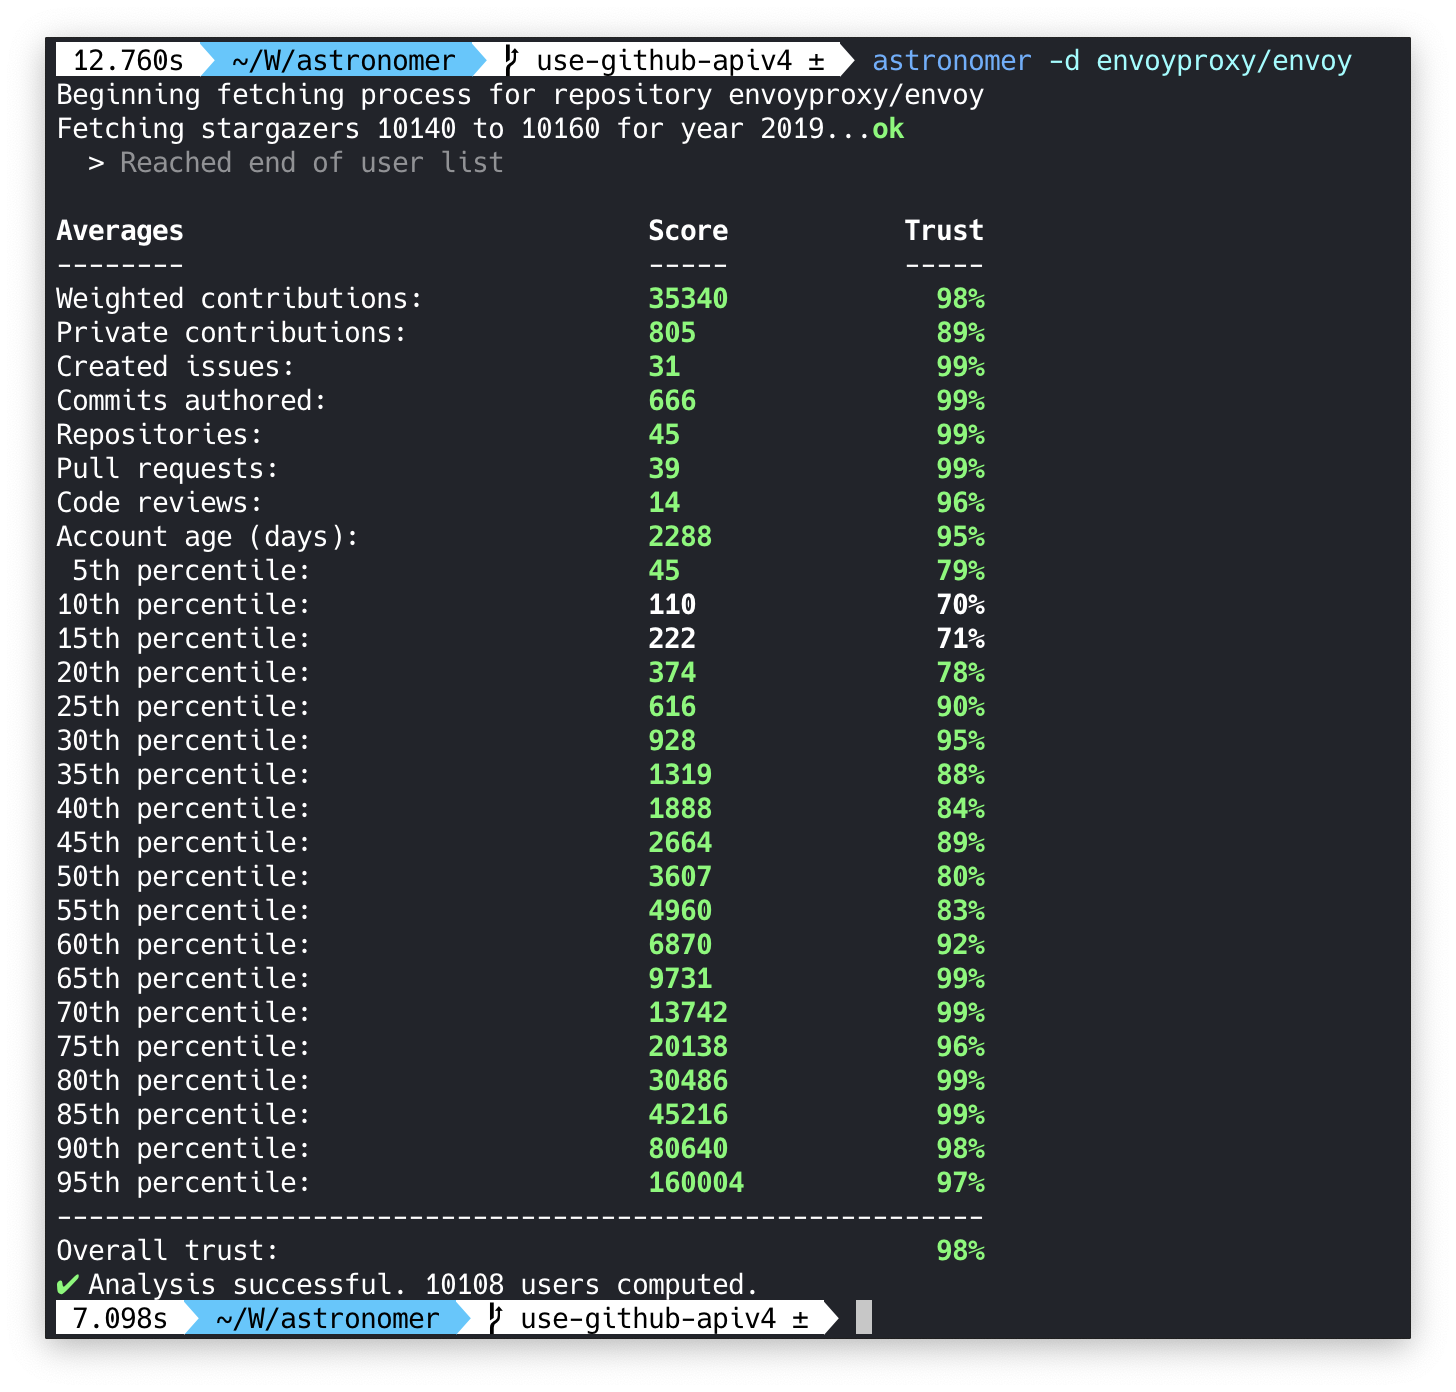
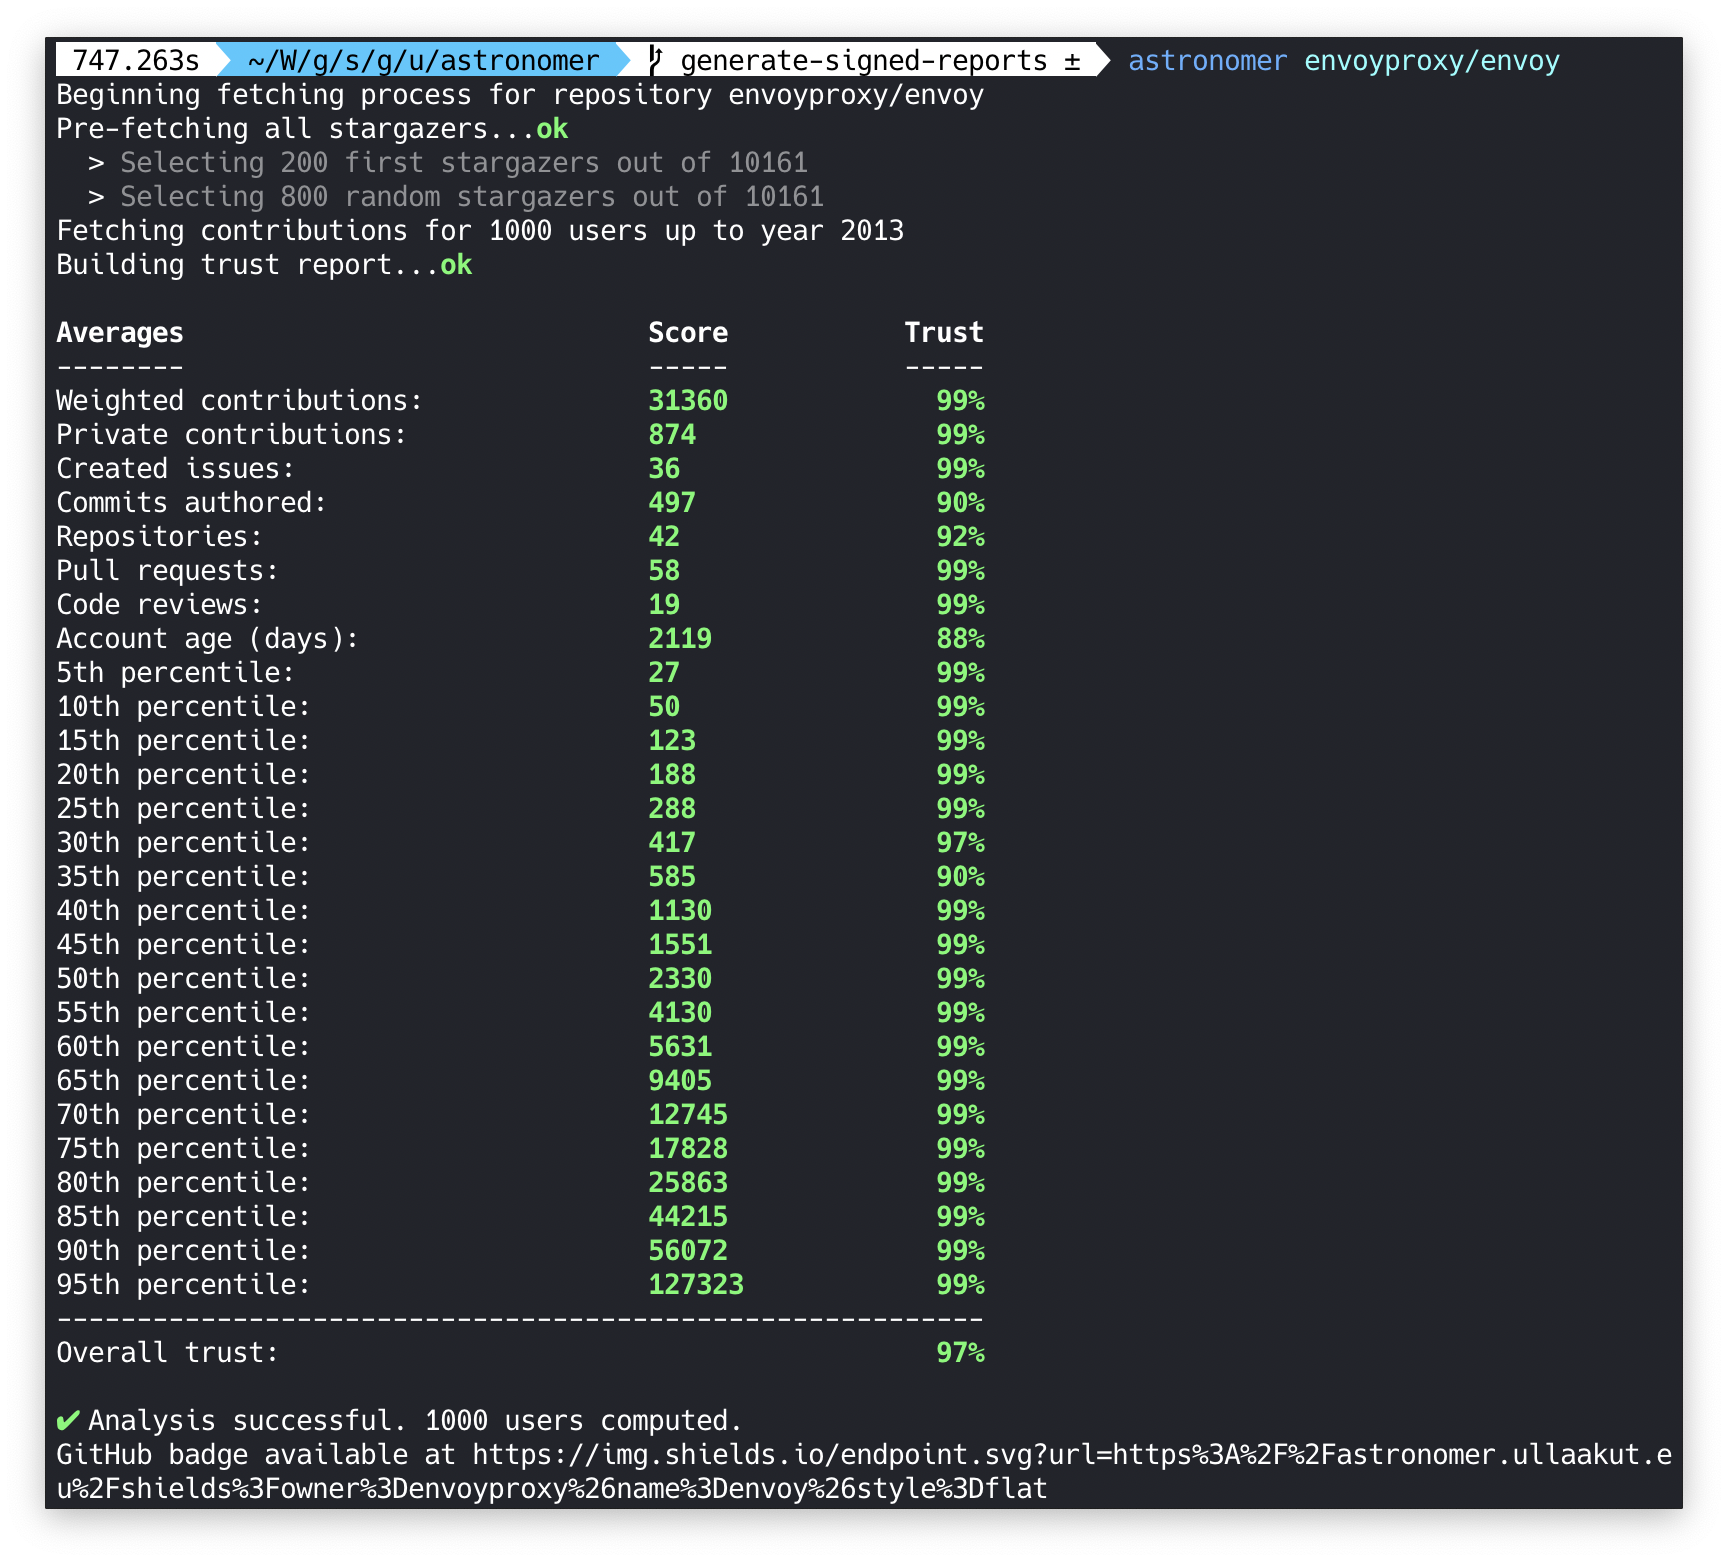
Make early stargazers scan mandatory, update documentation, add comments in packages

Changed region(s): [[0.0, 0.0, 0.989, 0.9885]]

diff --git a/pkg/trust/factors.go b/pkg/trust/factors.go
@@ -1,6 +1,7 @@
 package trust
 
-// Factors.
+// All of the factors taken into account by Astronomer
+// and shown in the report.
 const (
 	PrivateContributionFactor  FactorName = "Private contributions"
 	ContributionScoreFactor    FactorName = "Weighted contributions"
@@ -32,36 +33,36 @@ var (
 	// References are based on the average values of values typically
 	// found on popular repositories.
 	factorReferences = map[FactorName]float64{
-		PrivateContributionFactor:  600,
-		ContributionScoreFactor:    24000,
+		PrivateContributionFactor:  300,
+		ContributionScoreFactor:    18000,
 		IssueContributionFactor:    20,
 		CommitContributionFactor:   370,
 		RepoContributionFactor:     30,
 		PRContributionFactor:       20,
-		PRReviewContributionFactor: 10,
+		PRReviewContributionFactor: 8,
 		AccountAgeFactor:           1600,
 	}
 
 	percentileReferences = map[Percentile]float64{
-		"5":  10,
-		"10": 30,
-		"15": 65,
-		"20": 120,
-		"25": 230,
-		"30": 310,
-		"35": 520,
-		"40": 680,
-		"45": 990,
-		"50": 1450,
-		"55": 2150,
-		"60": 3230,
-		"65": 4870,
-		"70": 6480,
-		"75": 9830,
-		"80": 12020,
-		"85": 24110,
-		"90": 39970,
-		"95": 74670,
+		"5":  7,
+		"10": 22,
+		"15": 42,
+		"20": 98,
+		"25": 167,
+		"30": 286,
+		"35": 435,
+		"40": 515,
+		"45": 875,
+		"50": 1230,
+		"55": 1860,
+		"60": 2830,
+		"65": 4270,
+		"70": 5990,
+		"75": 8420,
+		"80": 10140,
+		"85": 19900,
+		"90": 33470,
+		"95": 59320,
 	}
 
 	// factorWeights represents the importance of each factor in

diff --git a/pkg/gql/fetch.go b/pkg/gql/fetch.go
@@ -401,7 +401,7 @@ func getCursors(ctx *context.Context, sg []stargazers, totalUsers uint) []string
 		}
 	}
 
-	if ctx.ScanAll || totalUsers < ctx.Stars || totalUsers < 200 {
+	if totalUsers <= 200 {
 		disgo.Infof("All %d stargazers will be scanned\n", totalUsers)
 		return cursors
 	}
@@ -417,11 +417,16 @@ func getCursors(ctx *context.Context, sg []stargazers, totalUsers uint) []string
 
 	selectedCursors = append(selectedCursors, cursors[len(cursors)-beginCursorAmount-1:len(cursors)-1]...)
 
-	// endCursorAmount is the amount of cursors to fetch to get the random users.
-	endCursorAmount := totalCursorAmount - beginCursorAmount
-	disgo.Infof("Selecting %d random stargazers out of %d\n", (endCursorAmount-1)*contribPagination, totalUsers)
+	if ctx.ScanAll || totalUsers < ctx.Stars {
+		disgo.Infof("Selecting all %d remaining stargazers\n", totalUsers-200)
+		selectedCursors = append(selectedCursors, cursors[:len(cursors)-beginCursorAmount-1]...)
+	} else {
+		// endCursorAmount is the amount of cursors to fetch to get the random users.
+		endCursorAmount := totalCursorAmount - beginCursorAmount
+		disgo.Infof("Selecting %d random stargazers out of %d\n", (endCursorAmount-1)*contribPagination, totalUsers)
 
-	selectedCursors = pickRandomStringsExcept(cursors, selectedCursors, uint(endCursorAmount))
+		selectedCursors = pickRandomStringsExcept(cursors, selectedCursors, uint(endCursorAmount))
+	}
 
 	return selectedCursors
 }

diff --git a/pkg/trust/compute.go b/pkg/trust/compute.go
@@ -13,13 +13,25 @@ import (
 	"github.com/ullaakut/disgo/style"
 )
 
+// Factor represents one of the trust factors used to compte
+// the trust score for a repository.
 type Factor struct {
-	Value        float64
+	// The raw value of this factor.
+	Value float64
+
+	// The % of trust given to the value, compared
+	// to global references.
 	TrustPercent float64
 }
 
+// FactorName is a typed string representing a
+// Factor's name.
 type FactorName string
 
+// Percentile is a typed string representing
+// a percentile trust factor. It is a string
+// instead of a float to allow the `encoding/json`
+// package to marshal trust reports.
 type Percentile string
 
 // Report represents the result of the trust computation of a repository's
@@ -59,7 +71,7 @@ func Compute(ctx *context.Context, users []gql.User) (*Report, error) {
 
 	defer disgo.EndStep()
 
-	if ctx.Stars == uint(len(users)) {
+	if uint(len(users)) >= 200 {
 		return buildComparativeReport(trustData)
 	}
 

diff --git a/pkg/gql/models.go b/pkg/gql/models.go
@@ -65,7 +65,9 @@ const (
 		}"}`
 )
 
-// User represents a github user who starred a repository.
+// User represents a github user who starred a repository. It is
+// public because this model is the output of the Fetch methods of
+// this package.
 type User struct {
 	Login         string        `json:"login"`
 	CreatedAt     string        `json:"createdAt"`
@@ -74,7 +76,8 @@ type User struct {
 	YearlyContributions map[int]int
 }
 
-// DaysOld returns the amount of day since this user created their account.
+// DaysOld returns the amount of days since this user created their
+// GitHub account.
 func (u User) DaysOld() float64 {
 	creationDate, err := time.Parse(iso8601Format, u.CreatedAt)
 	if err != nil {

diff --git a/main.go b/main.go
@@ -122,7 +122,7 @@ func detectFakeStars(ctx *context.Context) error {
 
 	disgo.Infof("\n%s Analysis successful. %d users computed.\n", style.Success(style.SymbolCheck), len(users))
 
-	badgeEndpoint := url.QueryEscape(fmt.Sprintf("https://astronomer.ullaakut.eu/shields?owner=%s&name=%s&style=flat", ctx.RepoOwner, ctx.RepoName))
+	badgeEndpoint := url.QueryEscape(fmt.Sprintf("https://astronomer.ullaakut.eu/shields?owner=%s&name=%s", ctx.RepoOwner, ctx.RepoName))
 
 	disgo.Infof("GitHub badge available at https://img.shields.io/endpoint.svg?url=%s\n", badgeEndpoint)
 

diff --git a/pkg/signature/send.go b/pkg/signature/send.go
@@ -17,6 +17,8 @@ import (
 	"github.com/ullaakut/disgo"
 )
 
+// SignedReport represents a report that has been signed
+// by a legitimate version of Astronomer.
 type SignedReport struct {
 	*trust.Report
 
@@ -26,6 +28,7 @@ type SignedReport struct {
 	Signature []byte
 }
 
+// SendReport signs a report and sends it to Astrolab.
 func SendReport(ctx *context.Context, report *trust.Report) error {
 	signature, err := signReport(report)
 	if err != nil {

diff --git a/pkg/trust/render.go b/pkg/trust/render.go
@@ -34,7 +34,9 @@ func printf(info bool, format string, s ...interface{}) {
 	}
 }
 
-// Render prints a report.
+// Render prints a report. If info is set to true, it prints it regardless
+// of the verbosity, while if info is set to false it will print it only
+// in verbose mode.
 func Render(report *Report, info bool) {
 	if report == nil {
 		disgo.Errorln(style.Failure(style.SymbolCross, " No report to render."))

diff --git a/pkg/signature/check.go b/pkg/signature/check.go
@@ -13,6 +13,8 @@ import (
 	"fmt"
 )
 
+// Check verifies whether a report has been signed
+// with a legitimate version of Astronomer.
 func Check(report *SignedReport) error {
 	data, err := json.Marshal(report.Report)
 	if err != nil {

diff --git a/pkg/context/context.go b/pkg/context/context.go
@@ -1,6 +1,6 @@
 package context
 
-// Context represents the context of the Astronomer scan.
+// Context represents the context of an Astronomer scan.
 type Context struct {
 	RepoOwner          string
 	RepoName           string

diff --git a/README.md b/README.md
@@ -5,6 +5,9 @@
 </p>
 
 <p align="center">
+    <a href="https://github.com/ullaakut/astronomer">
+        <img src="https://img.shields.io/endpoint.svg?url=https%3A%2F%2Fastronomer.ullaakut.eu%2Fshields%3Fowner%3Dullaakut%26name%3Dastronomer" />
+    </a>
     <a href="#license">
         <img src="https://img.shields.io/badge/license-MIT-blue.svg?style=flat" />
     </a>
@@ -21,6 +24,8 @@
 
 Astronomer is a tool that fetches data from every GitHub user who starred a common repository and computes how likely it is that those users are real humans.
 The goal of Astronomer is to **detect illegitimate GitHub stars from bot accounts**, which could be used to artificially increase the popularity of an open source project.
+
+It comes together with [Astrolab](https://github.com/ullaakut/astrolab), a server which collects trust reports generated by Astronomer, and **generates GitHub badges** to let you prove your community's authenticity.
 
 <p align="center">
     <img width="75%" src="img/astronomer.gif">
@@ -42,26 +47,21 @@ Trust is computed based on many different factors:
 
 ## How to use it
 
-### Docker image
+In order to use Astronomer, you'll need a GitHub token with `repo` read rights. You can generate one [in your GitHub Settings > Developer settings > Personal Access Tokens](https://github.com/settings/tokens). Make sure to keep this token secret.
 
-In order to use Astronomer, you'll need a GitHub token with `repo` read rights. You can generate one [in your GitHub Settings > Developer settings > Personal Access Tokens](https://github.com/settings/tokens). Make sure to keep this token secret. You will also need to have docker installed.
+### Docker image
 
 Run `docker pull ullaakut/astronomer`.
 
-Then, use the astronomer docker image like such: `docker run -t -e GITHUB_TOKEN=$GITHUB_TOKEN -v "/path/to/your/cache/folder:/data/" ullaakut/astronomer repositoryOwner/repositoryName --verbose`
+Then, use the astronomer docker image like such: `docker run -t -e GITHUB_TOKEN=$GITHUB_TOKEN -v "/path/to/your/cache/folder:/data/" ullaakut/astronomer repositoryOwner/repositoryName`
 
 * The `-t` flag allows you to get a colored output. You can remove it from the command line if you don't care about this.
 * The `-e GITHUB_TOKEN=<your_token>` option is mandatory. The GitHub API won't authorize any requests without it.
 * The `-v "/path/to/your/cache/folder:/data/"` option can be used to cache the responses from the GitHub API on your machine. This means that the next time you run a scan, Astronomer will simply update its cache with the new stargazers since your last scan, and compute the trust levels again. It is highly recommended to use cache if you plan on scanning popular repositories (more than 1000 stars) more than once.
-* The `--verbose` flag enables the verbose mode which displays more detailed logs.
 
 ### Binary
 
-You can also install the go binary by [enabling go modules](https://github.com/golang/go/wiki/Modules#how-to-use-modules) and running `go install github.com/ullaakut/astronomer`. Make sure that your `go` version is at least `1.11.x`.
-
-You can verify your `go` version by running `go version`.
-
-The `astronomer` binary will then be available in `$GOPATH/bin/astronomer`.
+You can also download pre-compiled go binaries from the [Astronomer releases](https://github.com/Ullaakut/astronomer/releases/latest).
 
 ## Arguments and options
 
@@ -73,46 +73,70 @@ The `astronomer` binary will then be available in `$GOPATH/bin/astronomer`.
 
 ## Upcoming features
 
-In the future, Astronomer will hopefully:
+In the future, Astronomer will have a web application to display the detailed trust reports of repositories, which will then be the link of choice to put on your badge. It will also allow you to quickly look through all of the scanned repositories and access their full trust reports.
 
-* Generate GitHub badges to show off that your repository is legit (thanks [@emilevauge](https://github.com/emilevauge) for the idea!)
-* Provide a web interface to request scans and get your badge
-
-Keep in mind that scans are always going to be long for huge repositories. A 10K+ stars repository will take multiple hours to scan.
+Also, Astrolab will receive many improvements in the near future, in order to gather more accurate data by having multiple reports for the same repositories for example.
 
 ## Examples
 
-<p align="left">
+<p align="left" style="margin-bottom: 0">
     <img width="65%" src="img/traefik.png">
 </p>
-<p align="right">
+<p align="left" style="margin-top: -20px">
+    <img style="margin-left:25%" src="https://img.shields.io/endpoint.svg?url=https%3A%2F%2Fastronomer.ullaakut.eu%2Fshields%3Fowner%3Dcontainous%26name%3Dtraefik" />
+</p>
+<p align="right" style="margin-bottom: 0">
     <img width="65%" src="img/suspicious_repo.png">
 </p>
-<p align="left">
+<p align="right" style="margin-top: -20px">
+    <img style="margin-right:25%" src="https://img.shields.io/endpoint.svg?url=https%3A%2F%2Fastronomer.ullaakut.eu%2Fshields%3Fowner%3Doperator996%26name%3Dyaocl" />
+</p>
+<p align="left" style="margin-bottom: 0">
     <img width="65%" src="img/envoy.png">
+</p>
+<p align="left" style="margin-top: -20px">
+    <img style="margin-left:25%" src="https://img.shields.io/endpoint.svg?url=https%3A%2F%2Fastronomer.ullaakut.eu%2Fshields%3Fowner%3Denvoyproxy%26name%3Denvoy" />
 </p>
 
 ## Questions & Answers
-
-> _How accurate is this algorithm? Why does my repository have a low trust level?_
-
-Astronomer only attempts to estimate a trust level. The more stargazers there are on a repository, the more accurate it will be. Since the algorithm compares averages of the scanned repositories with global averages, if your repository has only two stars and that both are from new accounts with low contributions, it will seem extremely fishy to Astronomer, even if those are probably real stars. The goal of Astronomer is more orentied towards popular projects with thousands of stars, where the first few hundreds might have been from bot accounts, used to boost the project's popularity.
 
 > _Why would fake stars be an issue? The number of stars doesn't really matter._
 
 Repositories with high amounts of stars, especially when they arrive in bursts, are often found in [GitHub trending](https://github.com/trending), they are also emailed to people who subscribed to the [GitHub Explore](https://github.com/explore?since=daily) daily newsletter. This means that an open source project can get actual users to use their software by bringing attention to it using illegitimate bot accounts. Many startups are known for choosing technologies to use based on GitHub stars, since they provide the comforting thought that the project is backed by a strong community. Unfortunately, as far as I know, GitHub currently does not attempt to prevent this from happening.
 
+<br/>
+
+> _How accurate is this algorithm? Why does my repository have a low trust level?_
+
+Astronomer only attempts to estimate a trust level. A low score could be indicative of a community of casual GitHub users, or a repisitory with a low amount of stars resulting in low precisions.
+
+<br/>
+
+> _How can I add an Astronomer badge to my repository?_
+
+Once you run an Astronomer scan on your machine, your trust report is automatically sent to the Astronomer server. Then, a link to your badge should be visible in Astronomer's output. Once you have it, you can add it to your repository by simply adding this line to your repository's `README.md` file:
+
+`[![Astronomer Rating](https://img.shields.io/endpoint.svg?url=https%3A%2F%2Fastronomer.ullaakut.eu%2Fshields%3Fowner%3D<REPOSITORY_OWNER>%26name%3D<REPOSITORY_NAME>)](https://github.com/ullaakut/astronomer)`
+
+Make sure to replace `<REPOSITORY_OWNER>` and `<REPOSITORY_NAME>` with the correct values for your repository. For example, for astronomer, the URL would be `https://img.shields.io/endpoint.svg?url=https%3A%2F%2Fastronomer.ullaakut.eu%2Fshields%3Fowner%3Dullaakut%26name%3Dastronomer`.
+
+<br/>
+
+> _I ran multiple scans of my repository and I'm getting slightly different trust ratios every time, why is that?_
+
+In order to be faster, Astronomer does not scan every single user in your repository. It instead scans the early stargazers of your repository and compares their trust levels to multiple slices of random stargazers of your repository. Those random stargazers can then sometimes be responsible for slight changes in the results, but they usually represent a difference of 1% to 3%, which is negligeable.
+
+If you want a very precise report of all of your stargazers, use the ``
+
+<br/>
+
 > _How can I contribute to this project?_
 
-If you have a strong math background, knowledge in statistics and analytics, or in general believe you could make the trust algorithm smarter, please contact me, or at least feel free to open a feature request describing what algorithm you think would work better. A feature that I would be especially interested in is computing the curve of percentile values for each trust factor and compare it to a reference curve, in order to detect inconsistencies.
+Simply running Astronomer on as many GitHub projects as possible (especially those with over 1000 stars) is very helpful for us, as it gives us more data in order to refine the algorithm.
 
-If you are a software engineer or a web developer (or both), you could also participate in helping to build the next version of Astronomer: an API and a web application to let people scan whatever repositories they want for fake stars, and see previously generated reports through a web interface. It would make it easy for everyone to check whether or not a repository's stargazers are legit.
+Also, if you have a strong math background, knowledge in statistics and analytics, or in general believe you could make the trust algorithm smarter, please contact me, or at least feel free to open a feature request describing what algorithm you think would work better. A feature that I would be especially interested in is computing the curve of percentile values for each trust factor and compare it to a reference curve, in order to detect inconsistencies.
 
-Also, if you have data to backup a claim that you have a better value for the good/bad constants (used to determine what is a good or bad value for a specific metric), feel free to reach out to me. This is an essential part of having a precise estimation of how legit a repository is, and improving these constants would improve the overall quality of the algorithm.
-
-> _What's the strange hardcoded skip in the `query.go` file?_
-
-Unfortunately there was an issue in the GitHub API, where all API queries containing [this user](https://github.com/jstrachan)'s contributions consistenly timed out. Since he starred `containous/traefik`, I had to hardcode a skip in order to allow the scan to continue (since the GH API's only method of pagination is to use the `cursor` returned by the user node, get his cursor value manually and hardcode it in the blacklist. It has since been solved by GitHub but I'm keeping this logic in place in case it's ever needed again.
+Of course, if you have any suggestion of features or improvements you would like to see in Astronomer, feel free to open issues and pull requests!
 
 ## Thanks
 
